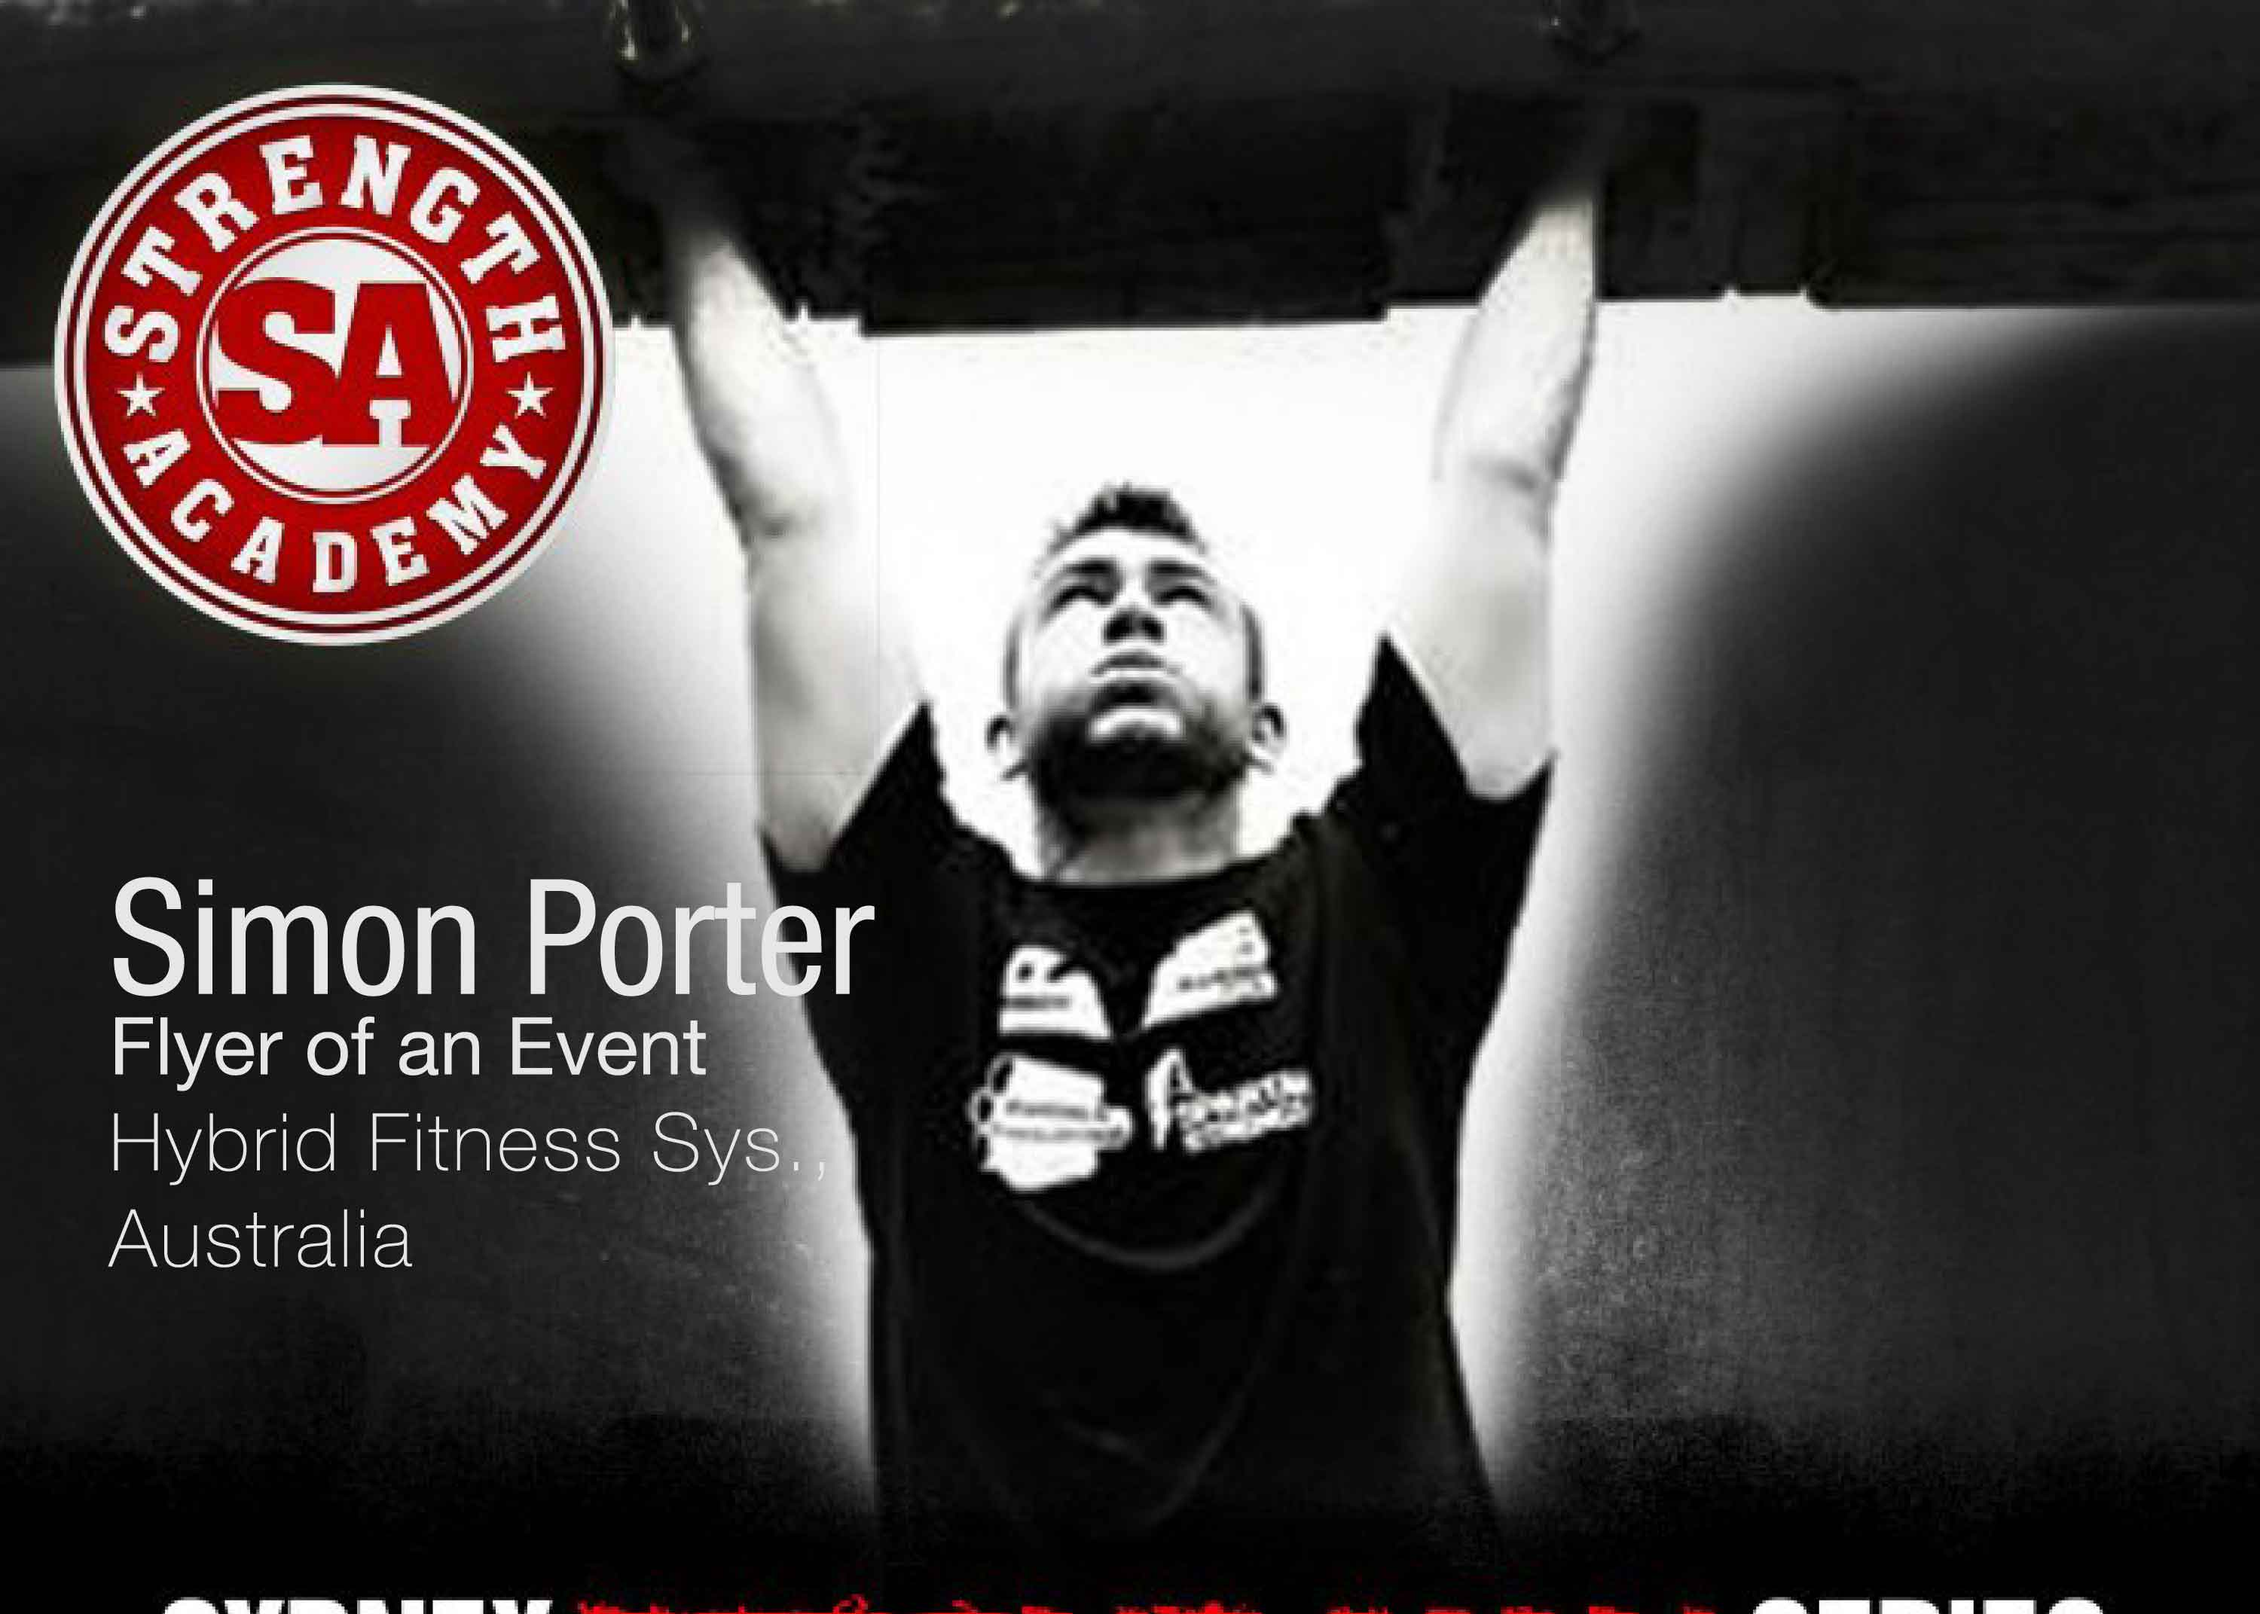
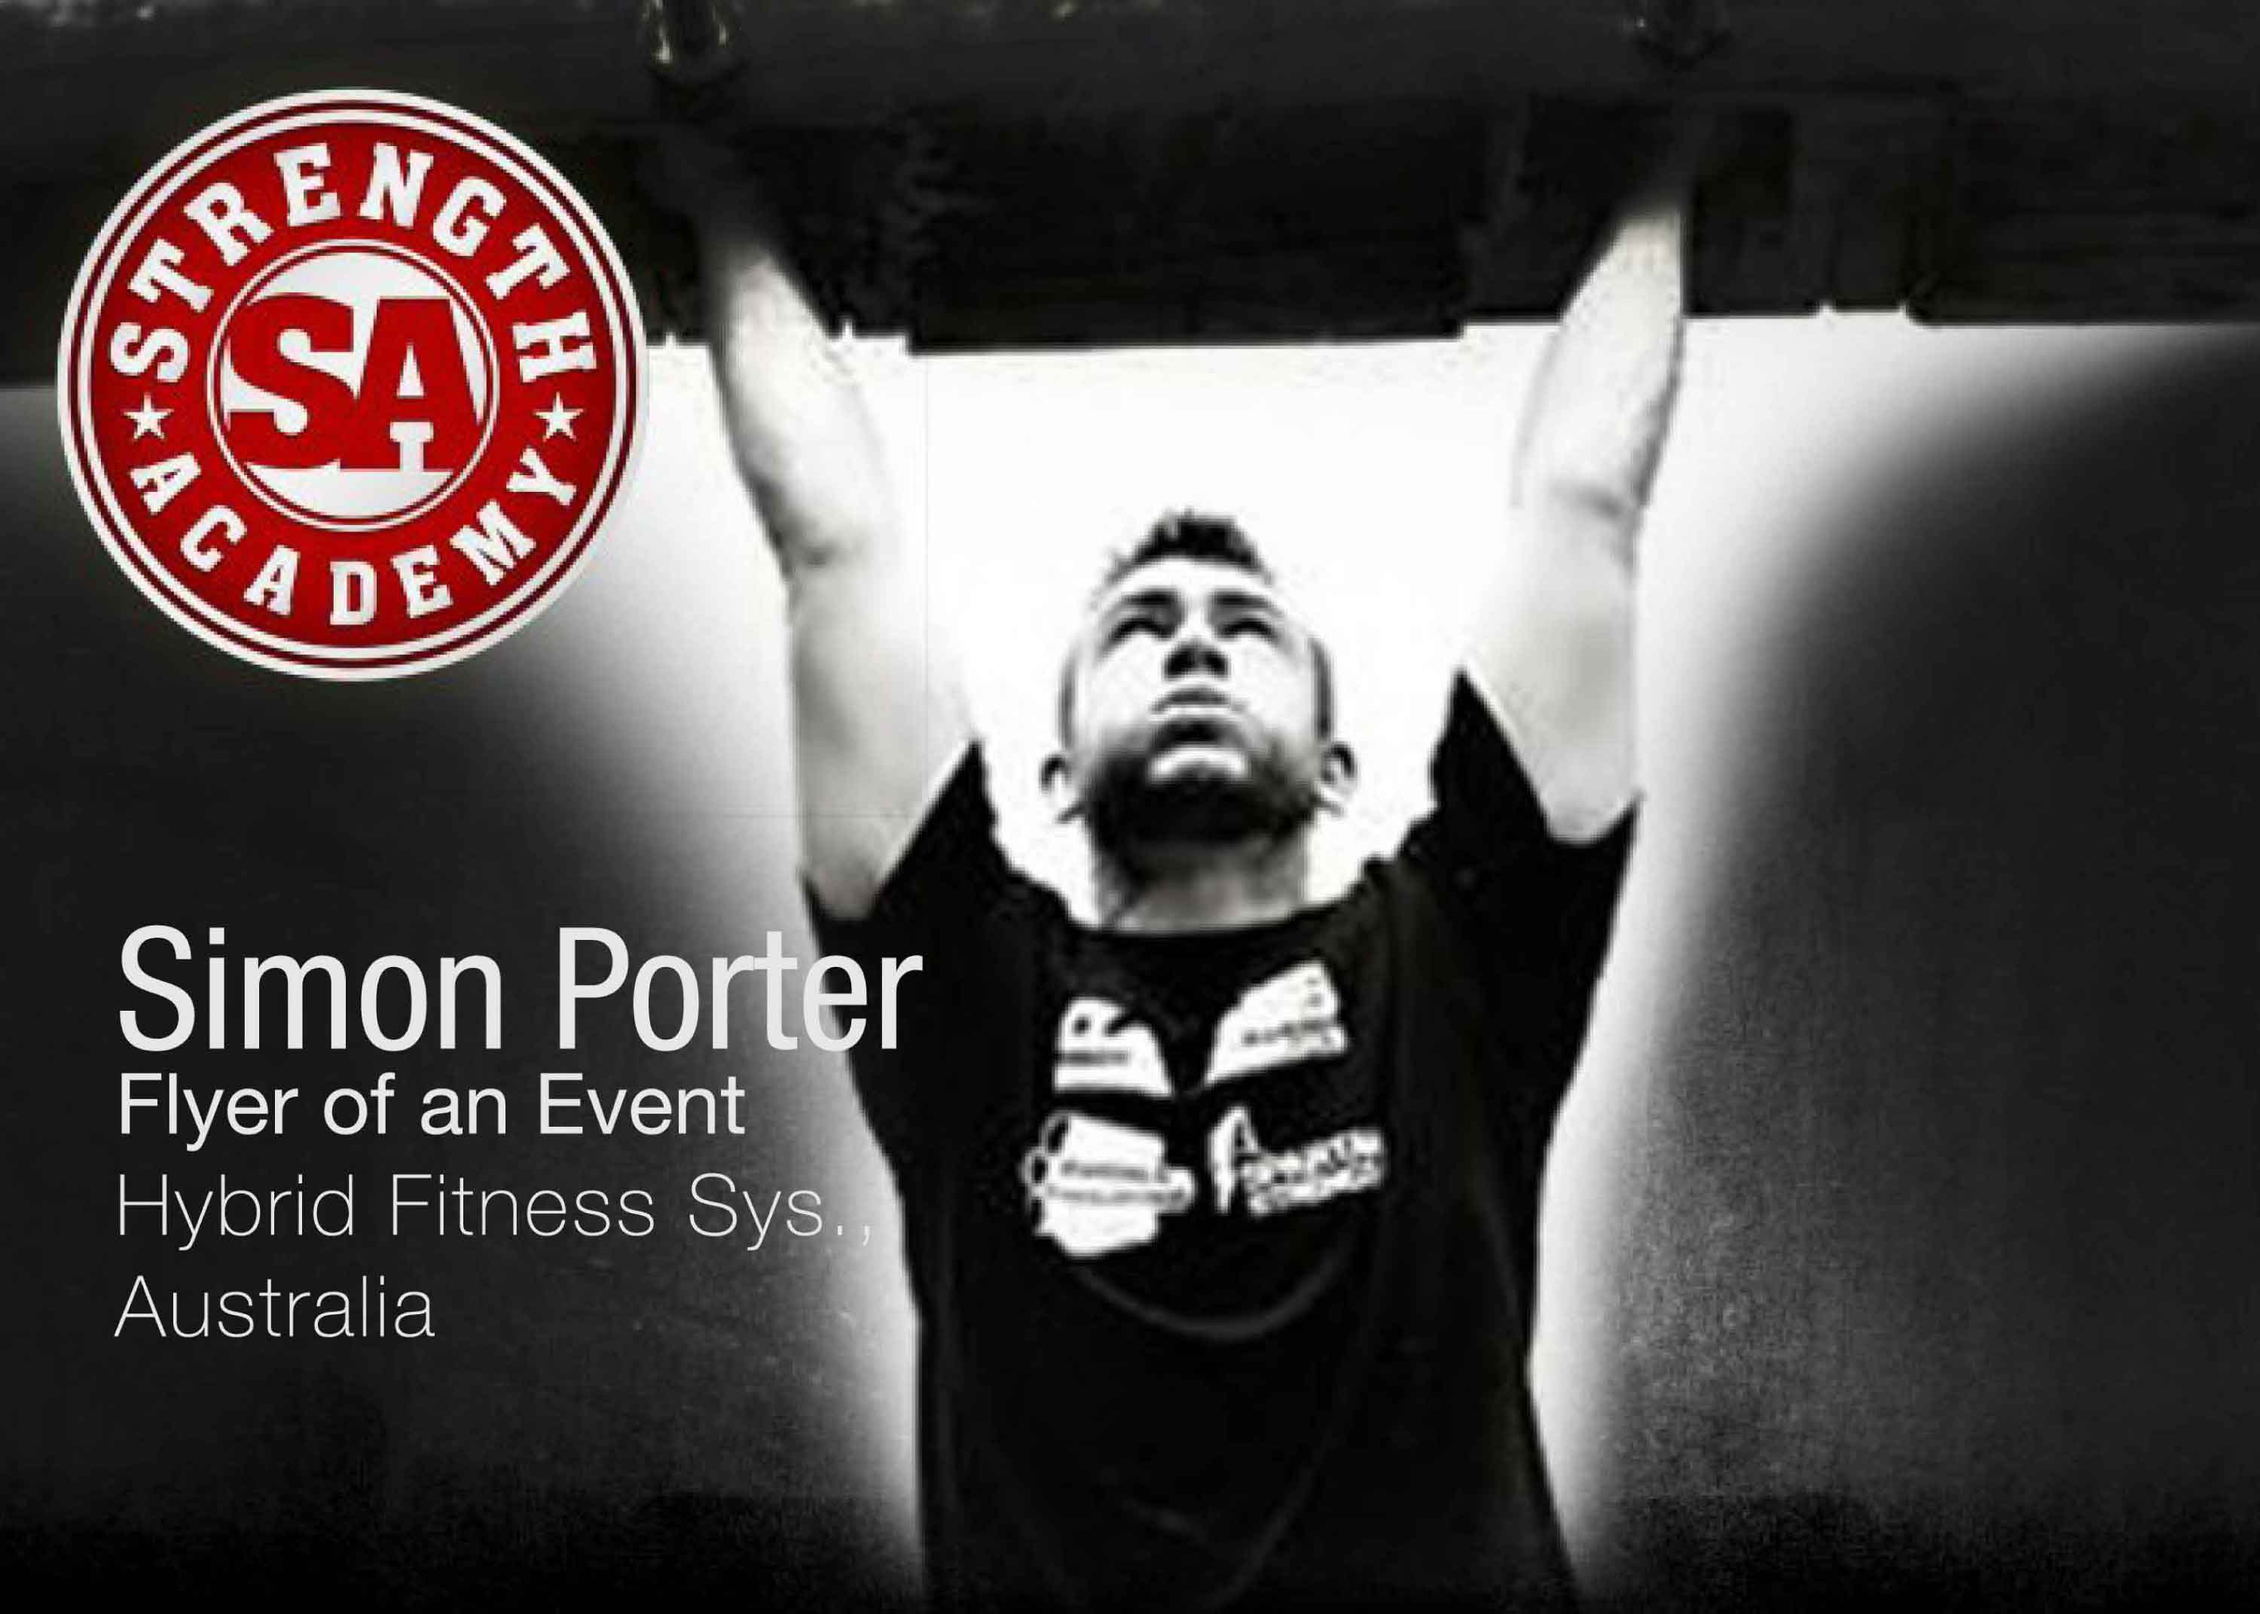
Updated testimonial images

diff --git a/sass/style.css b/sass/style.css
@@ -82,7 +82,7 @@ header .navbar {
     margin: 30px; }
 
 /*end of page*/
-/*page -- staff*/
+/*page -- bio*/
 #bio {
   background-color: #e4d29d;
   background-image: linear-gradient(to bottom, #e4d29d, #cdae50); }
@@ -145,23 +145,23 @@ header .navbar {
     border-radius: 0 50px 0 0; }
   #testimonials blockquote .quote:hover {
     background-color: rgba(239, 240, 196, 0.9); }
-  #testimonials #janeh {
-    background-image: url(../images/testimonial-janeh.jpg);
+  #testimonials #alan {
+    background-image: url(../images/testimonial-Mark_Alan.jpg);
     background-repeat: no-repeat;
     background-position: center center;
     background-size: cover; }
-  #testimonials #mcphersons {
-    background-image: url(../images/testimonial-mcphersons.jpg);
+  #testimonials #ahmed {
+    background-image: url(../images/testimonial-Khawar_Ahmed.jpg);
     background-repeat: no-repeat;
     background-position: center center;
     background-size: cover; }
-  #testimonials #johnb {
-    background-image: url(../images/testimonial-johnb.jpg);
+  #testimonials #bishop {
+    background-image: url(../images/testimonial-Kim_Bishop.jpg);
     background-repeat: no-repeat;
     background-position: center center;
     background-size: cover; }
-  #testimonials #lorraines {
-    background-image: url(../images/testimonial-lorraines.jpg);
+  #testimonials #porter {
+    background-image: url(../images/testimonial-Simon_Porter.jpg);
     background-size: cover; }
   #testimonials .quote {
     font-size: 1.2em;
@@ -244,6 +244,11 @@ span.carousel-control-prev-icon, span.carousel-control-next-icon {
   height: 30px; }
 
 /*other media*/
+@media (min-width: 300px) {
+  .photo img {
+    display: block;
+    margin: 0 auto;
+    margin-bottom: 1em; } }
 @media only screen and (min-width: 450px) and (max-width: 767px) {
   #services p {
     padding: 0 20%; } }
